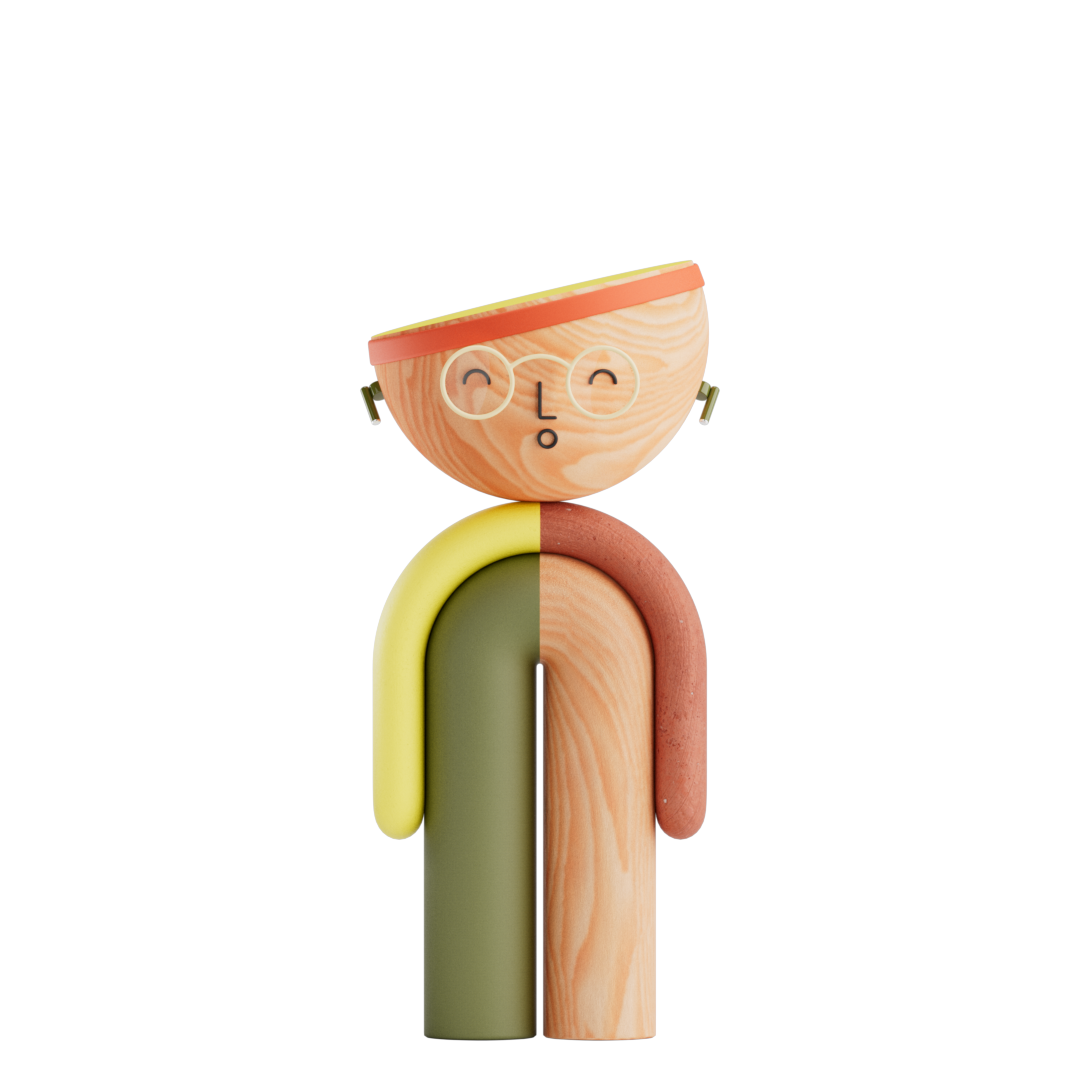
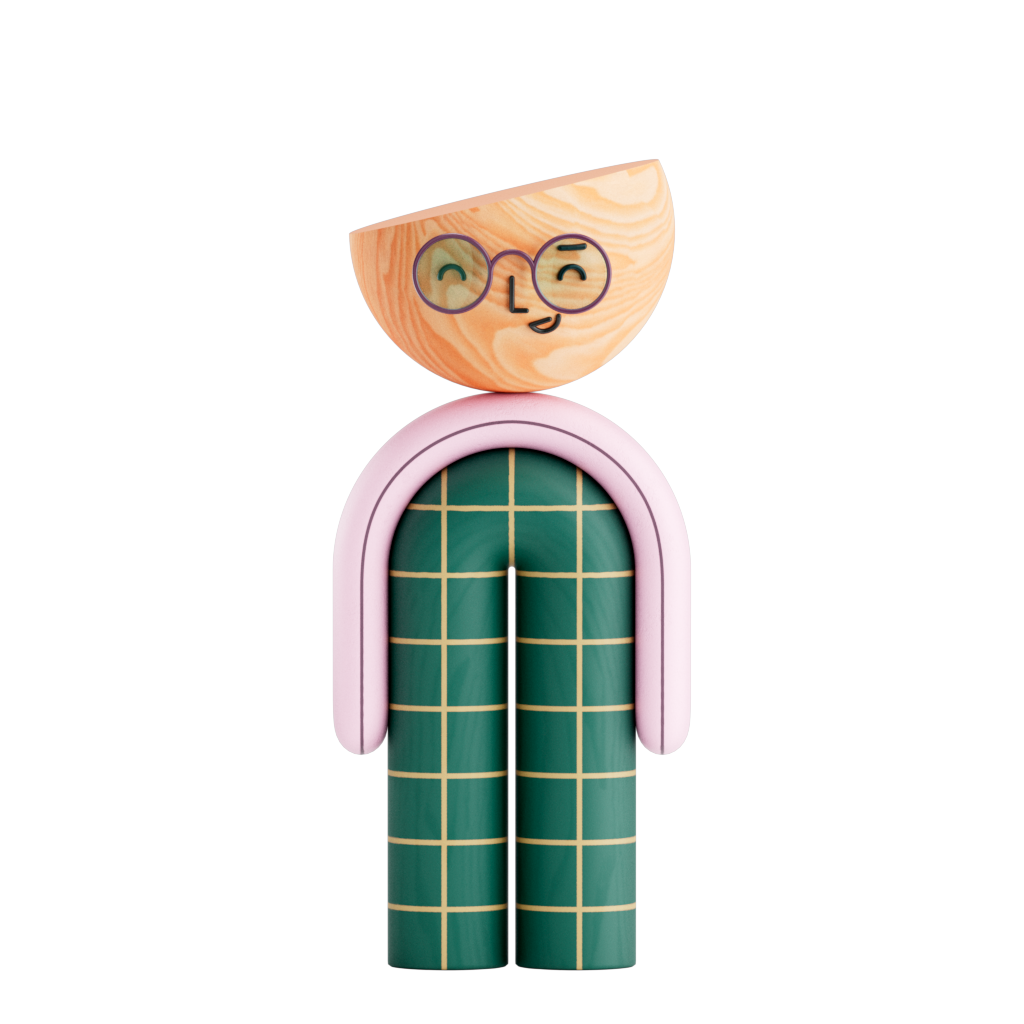
updated Geos and Colors

Changed region(s): [[0.3125, 0.1562, 0.6875, 0.9688]]

diff --git a/tailwind.config.js b/tailwind.config.js
@@ -12,26 +12,34 @@ module.exports = {
                 darkGray: "#4D4D4D",
                 hover: "#FFF",
                 hoverSocial: "#FFF",
-                accent1: "#f97612",
+                accent1: "#ff7044",
                 accent2: "#ffbbd8",
                 accent3: "#004d3f",
                 accent4: "#fbd599",
                 accent5: "#283cea",
-                accent6: "#ffe44e",
+                accent6: "#ffd941",
                 accent7: "#ff9d82",
-                accent8: "#e69dd4",
-                accent9: "#ecb553",
-                accent10: "#f61918",
+                accent8: "#a944ff",
+                accent9: "#b1915e",
+                accent10: "#aa7fff",
                 accent11: "#ff4d29",
                 accent12: "#623d52",
                 accent13: "#edff44",
                 accent14: "#5d5f30",
-                accent15: "#005d7f",
-                accent16: "#b363b6",
+                accent15: "#1f3142",
+                accent16: "#917531",
                 accent17: "#7ea8fd",
-                accent18: "#39a46b",
+                accent18: "#5a44ff",
                 accent19: "#ffffff",
                 accent20: "#000000",
+                bgColor1: "#b7cae7",
+                bgColor2: "#f7ce7e",
+                bgColor3: "#bb9395",
+                bgColor4: "#fbd599",
+                bgColor5: "#99a37d",
+                bgColor6: "#ffc58c",
+                bgColor7: "#ccd6ad",
+                bgColor8: "#ed9c6a",
             },
             fontFamily: {
                 relative: "relative-medium-pro",

diff --git a/utils/geosDatabase.js b/utils/geosDatabase.js
@@ -2,22 +2,22 @@ const geosData = [
     {
         pathBody: "/images/Geo01_body.png",
         pathHead: "/images/Geo01_head.png",
-        color: "accent13",
+        color: "bg-accent9",
     },
     {
         pathBody: "/images/Geo02_body.png",
         pathHead: "/images/Geo02_head.png",
-        color: "accent17",
+        color: "bg-accent5",
     },
     {
         pathBody: "/images/Geo03_body.png",
         pathHead: "/images/Geo03_head.png",
-        color: "bg-accent9",
+        color: "bg-accent2",
     },
     {
         pathBody: "/images/Geo04_body.png",
         pathHead: "/images/Geo04_head.png",
-        color: "bg-accent2",
+        color: "bg-accent8",
     },
     {
         pathBody: "/images/Geo05_body.png",
@@ -27,7 +27,7 @@ const geosData = [
     {
         pathBody: "/images/Geo06_body.png",
         pathHead: "/images/Geo06_head.png",
-        color: "accent11",
+        color: "bg-accent15",
     },
     {
         pathBody: "/images/Geo07_body.png",

diff --git a/utils/accentColors.js b/utils/accentColors.js
@@ -1,22 +1,33 @@
 const accentColors = [
-    "#f97612",
+    "#ff7044",
     "#ffbbd8",
     "#004d3f",
     "#fbd599",
     "#283cea",
+    "#ffd941",
     "#ff9d82",
-    "#e69dd4",
-    "#ecb553",
-    "#f61918",
+    "#a944ff",
+    "#b1915e",
+    "#aa7fff",
     "#ff4d29",
     "#623d52",
     "#edff44",
     "#5d5f30",
-    "#005d7f",
-    "#b363b6",
+    "#1f3142",
+    "#917531",
     "#7ea8fd",
-    "#39a46b",
-    "#ffffff",
+    "#5a44ff",
 ];
 
-export { accentColors };
+const bgColors = [
+    "#b7cae7",
+    "#f7ce7e",
+    "#bb9395",
+    "#fbd599",
+    "#99a37d",
+    "#ffc58c",
+    "#ccd6ad",
+    "#ed9c6a",
+];
+
+export { accentColors, bgColors };
